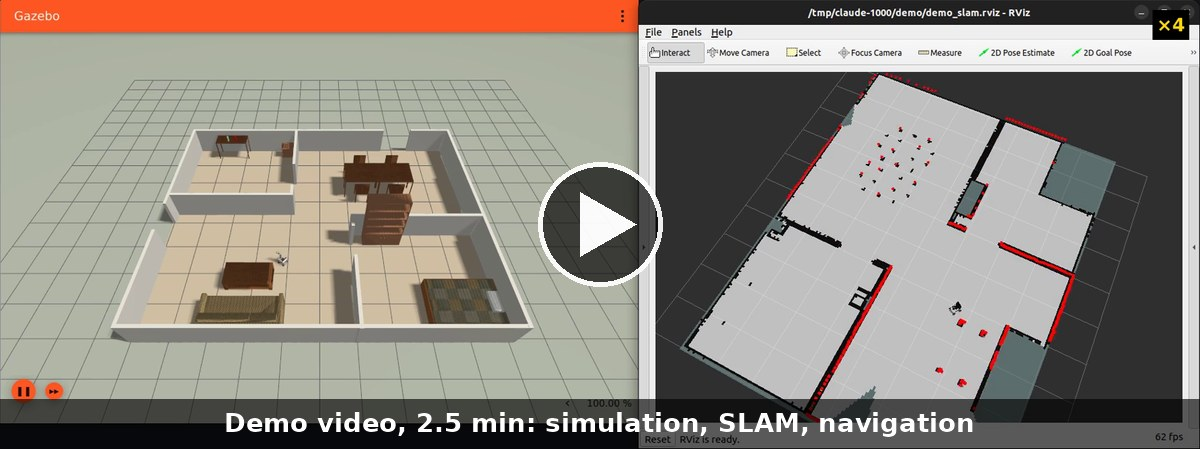
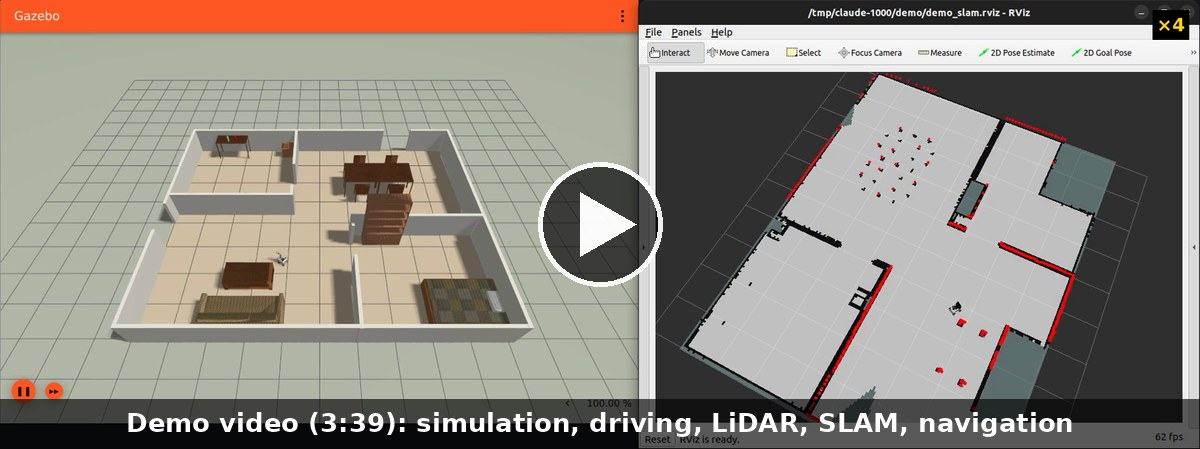
docs: README installs ROS 2 too; demo video 3 min 39 s (English only)

Changed region(s): [[0.0925, 0.9042, 0.8942, 0.9666]]

diff --git a/README.md b/README.md
@@ -11,9 +11,8 @@ drifting wheel odometry and datasheet sensor noise, as on the real robot.
 
 [![Demo video](docs/images/demo_video.jpg)](https://github.com/vminh16/rosorin-autonomy-sim/releases/tag/v1.0.0)
 
-Demo video (2 min 32 s, real commands from launch to the end of a mission):
-[English subtitles](https://github.com/vminh16/rosorin-autonomy-sim/releases/download/v1.0.0/rosorin_demo_en.mp4) ·
-[Vietnamese subtitles](https://github.com/vminh16/rosorin-autonomy-sim/releases/download/v1.0.0/rosorin_demo_vi.mp4).
+**[Demo video](https://github.com/vminh16/rosorin-autonomy-sim/releases/download/v1.0.0/rosorin_demo_en.mp4)**
+(3 min 39 s): the real commands, step by step, from starting the simulation to a 7-waypoint mission.
 The written report (setup, results, problems, trade-offs) is [`report/report.md`](report/report.md).
 
 ## Highlights
@@ -29,8 +28,28 @@ The written report (setup, results, problems, trade-offs) is [`report/report.md`
 
 ## Installation
 
-Requirements: Ubuntu 22.04 and ROS 2 Humble (install guide and platform notes, including WSL2 and hybrid-GPU laptops:
-[`docs/ENVIRONMENT.md`](docs/ENVIRONMENT.md)). Do not use a conda environment.
+Requirements: **Ubuntu 22.04** (ROS 2 Humble has no packages for 24.04); an NVIDIA GPU is recommended. Do not use a conda
+environment (`conda deactivate`; `which python3` must print `/usr/bin/python3`). Platform notes for WSL2 and hybrid-GPU
+laptops: [`docs/ENVIRONMENT.md`](docs/ENVIRONMENT.md).
+
+**0. ROS 2 Humble** (once per machine; skip if `ls /opt/ros/humble` already works), from the
+[official guide](https://docs.ros.org/en/humble/Installation/Ubuntu-Install-Debs.html):
+
+```bash
+sudo apt update && sudo apt install -y locales software-properties-common curl git
+sudo locale-gen en_US en_US.UTF-8 && sudo update-locale LC_ALL=en_US.UTF-8 LANG=en_US.UTF-8 && export LANG=en_US.UTF-8
+sudo add-apt-repository -y universe
+export ROS_APT_SOURCE_VERSION=$(curl -s https://api.github.com/repos/ros-infrastructure/ros-apt-source/releases/latest | grep -F "tag_name" | awk -F\" '{print $4}')
+curl -L -o /tmp/ros2-apt-source.deb "https://github.com/ros-infrastructure/ros-apt-source/releases/download/${ROS_APT_SOURCE_VERSION}/ros2-apt-source_${ROS_APT_SOURCE_VERSION}.$(. /etc/os-release && echo $VERSION_CODENAME)_all.deb"
+sudo dpkg -i /tmp/ros2-apt-source.deb
+sudo apt update && sudo apt install -y ros-humble-desktop ros-dev-tools
+sudo rosdep init && rosdep update
+```
+
+If the system language is not English (for example Vietnamese), also run
+`echo 'export LC_NUMERIC=en_US.UTF-8' >> ~/.bashrc`, so that ROS and Gazebo read `0.08` as a number.
+
+**1-5. The workspace:**
 
 ```bash
 # 1. Get the code

diff --git a/CHANGELOGS.md b/CHANGELOGS.md
@@ -15,7 +15,7 @@ Issue numbers refer to [`docs/DEBUG_LOG.md`](docs/DEBUG_LOG.md).
 | ROSOrin Pro upper part | the Hiwonder CAD is the plain ROSOrin: no deck, arm or screen, camera on the chassis front | deck, 6DOF arm, screen drawn from the wiki photo (visual only); camera on the wrist; /scan unchanged | `160663e` |
 | Realism mode, RGB-D camera | odometry was the true pose, sensor noise one fixed value, no depth stream | `realism:=true`: encoder odometry + IMU in a robot_localization EKF as on the robot, COIN-D6 range noise, IMU noise; `depth:=true`; Nav2 7/7 and SLAM work, default mode unchanged | `756c67e` |
 | Autonomous mapping | mapping needed driving by hand | `navigation.launch.py slam:=true` + `waypoint_follower localizer:=slam`: 7/7 rooms in 112 s, map 203 x 162 | `002d605` |
-| Install steps, README, report | `robot_localization` (realism mode) was not installed by `setup.sh`; install steps spread over README and ENVIRONMENT.md | `setup.sh` installs every package in 4 numbered steps; one 5-step install in README; shorter README with the demo video (release v1.0.0); report updated with realism mode, autonomous mapping and the EKF problem | `6488b95`, `6210a46` |
+| Install steps, README, report | `robot_localization` (realism mode) was not installed by `setup.sh`; install steps spread over README and ENVIRONMENT.md | `setup.sh` installs every package in 4 numbered steps; one 5-step install in README; shorter README with the demo video (3 min 39 s, release v1.0.0); report updated with realism mode, autonomous mapping and the EKF problem | `6488b95`, `6210a46` |
 
 ## 2026-10-12 — Re-check against the real documentation, navigation
 

diff --git a/report/report.md b/report/report.md
@@ -3,8 +3,7 @@
 **Robot:** Hiwonder ROSOrin Pro, a small four-wheel mecanum robot with a 360° 2D LiDAR.
 **Software:** Ignition Gazebo 6 (Fortress), ROS 2 Humble, Ubuntu 22.04. **GPU:** NVIDIA RTX 2050.
 **Repository:** `vminh16/rosorin-autonomy-sim`; short hashes such as `4d85581` point to the commit with the change and its
-evidence. **Demo video:** [English](https://github.com/vminh16/rosorin-autonomy-sim/releases/download/v1.0.0/rosorin_demo_en.mp4),
-[Vietnamese](https://github.com/vminh16/rosorin-autonomy-sim/releases/download/v1.0.0/rosorin_demo_vi.mp4) subtitles.
+evidence. **Demo video:** [3 min 39 s](https://github.com/vminh16/rosorin-autonomy-sim/releases/download/v1.0.0/rosorin_demo_en.mp4).
 
 ## 1. Summary
 
